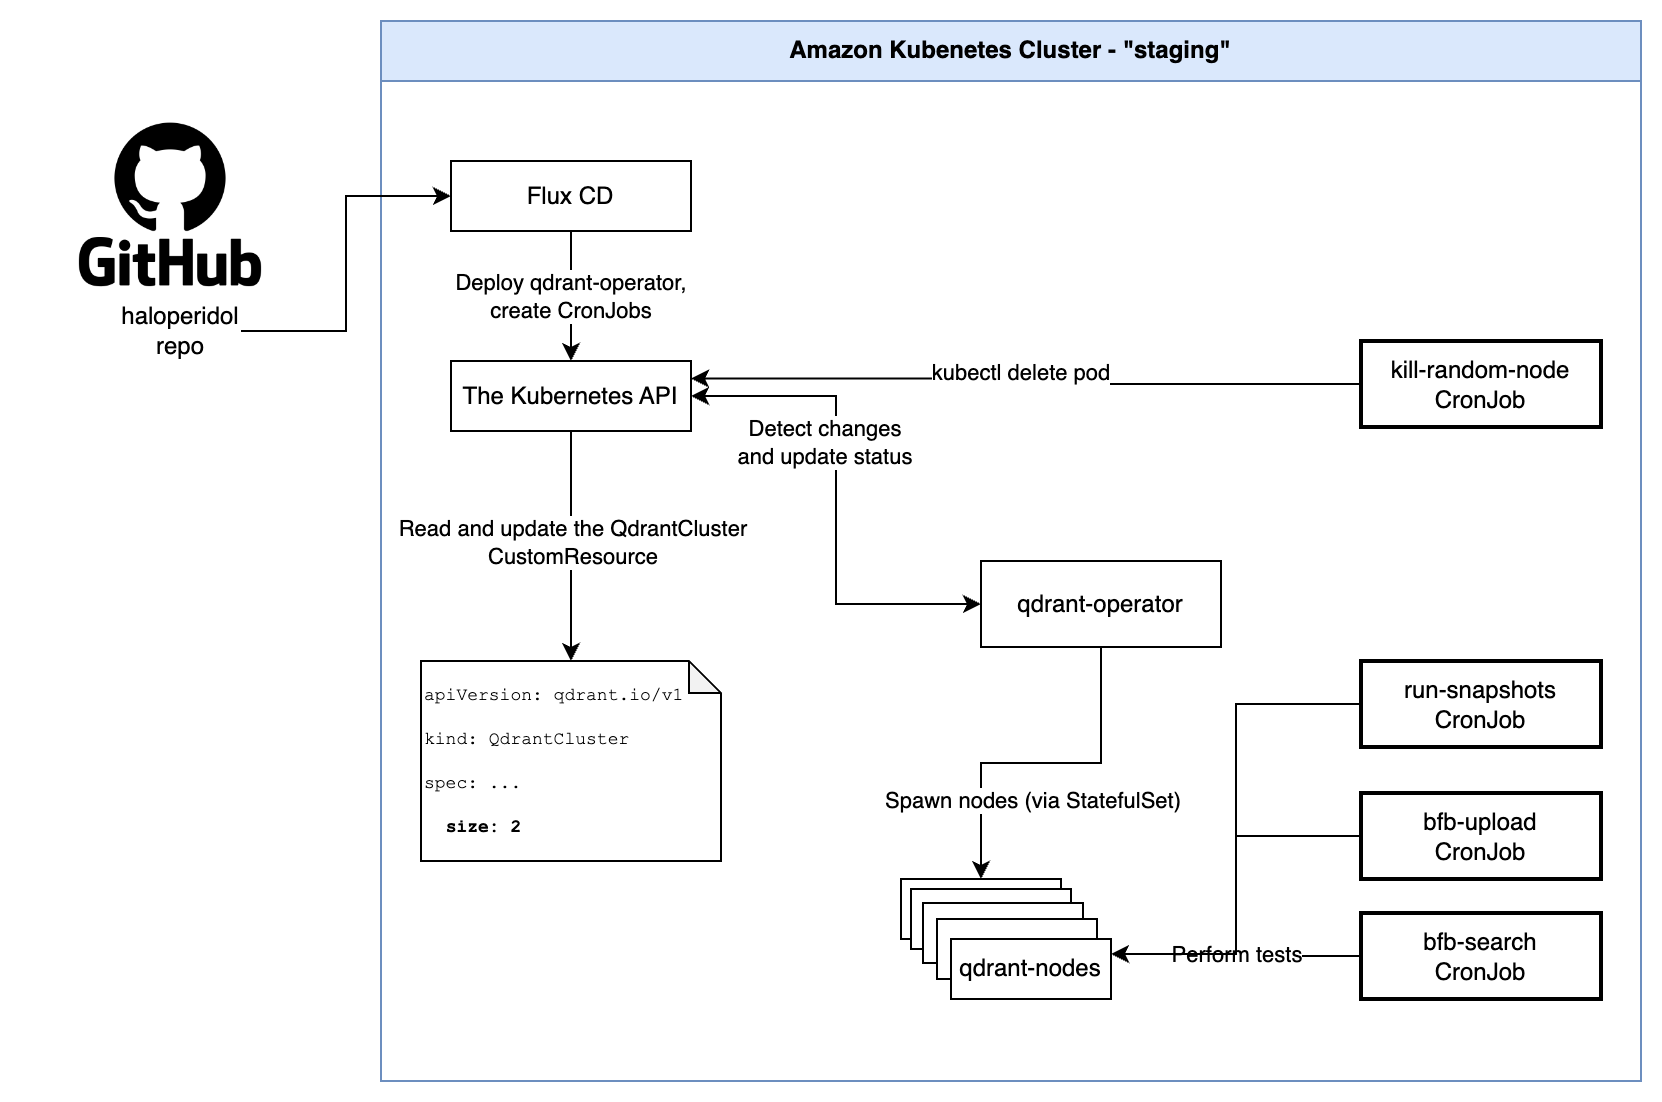
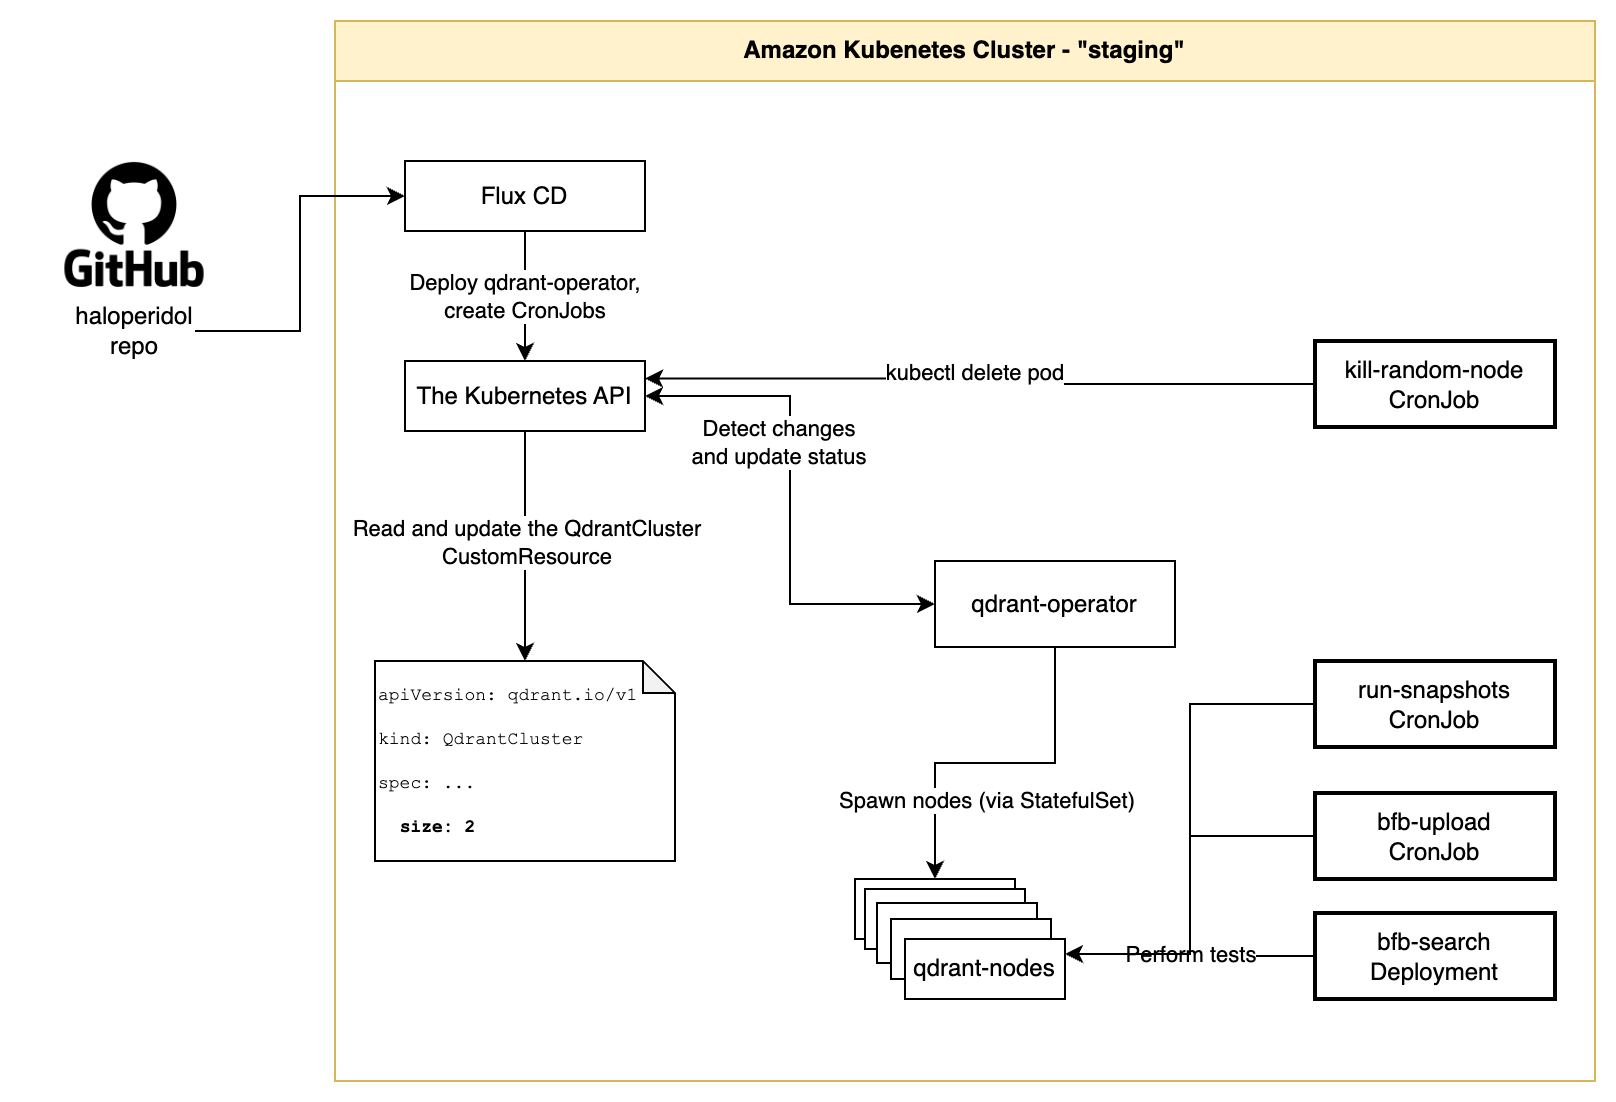
Fix diagram, expand readme

diff --git a/kubernetes/README.md b/kubernetes/README.md
@@ -1,8 +1,12 @@
 # Running Haloperidol in Kubernetes
 
+This folder deploys Haloperidol to a Kubernetes cluster used by the cloud team called the "staging" cluster. In this cluster, we have an instance of the qdrant-operator running which allows Haloperidol to easily deploy multi-node Qdrant clusters that are exactly like ones deployed in Qdrant Cloud.
+
+Haloperidol in Kubernetes works by executing scripts inside pods that run in the same namespace as the test Qdrant cluster. By having the right configuration on the CronJobs or Deployments that spawn these pods, the scripts can access the Kubernetes API to kill pods, modify the QdrantCluster's config, or directly run `bfb` against the Qdrant cluster via an internal DNS record that matches the Kubernetes Service and Namespace: `http://qdrant-haloperidol.haloperidol.svc.cluster.local:6333`
+
 ![A diagram of how this code runs in the staging Kubernetes cluster](./k8s-diagram.png "How this code runs in the staging Kubernetes cluster")
 
-Any Kubernetes YAML files change in this folder will be automatically applied
+Any Kubernetes YAML files changed in this folder will be automatically applied
 to the staging cluster when the change is committed and pushed to the "master" branch. Any new files will also be applied if added to `kustomization.yaml`.
 
 The configuration for this can be found here: https://github.com/qdrant/qdrant-cloud/tree/main/environments/staging/apps/haloperidol
@@ -41,9 +45,8 @@ vim qdrantcluster.yaml
 kubectl apply -k .
 ```
 
-You can trigger the cronjobs to run on-demand like this:
+You can trigger cronjobs to run on-demand like this:
 
 ```
-kubectl create job --from=cronjob/bfb-upload test-bfb-upload -n haloperidol
-kubectl create job --from=cronjob/bfb-search test-bfb-search -n haloperidol
+kubectl create job --from=cronjob/run-snapshots test-run-snapshots -n haloperidol
 ```
